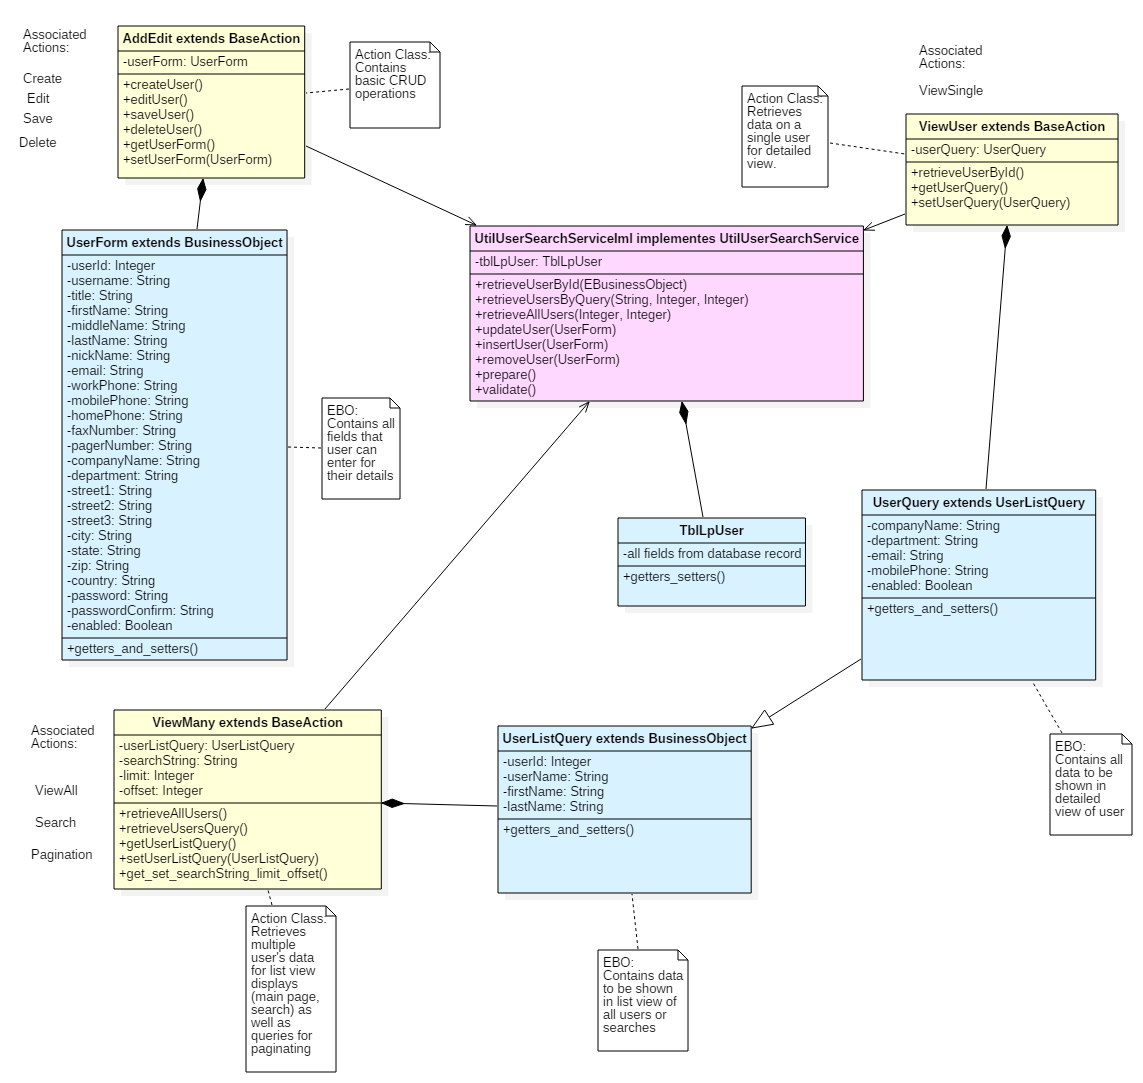
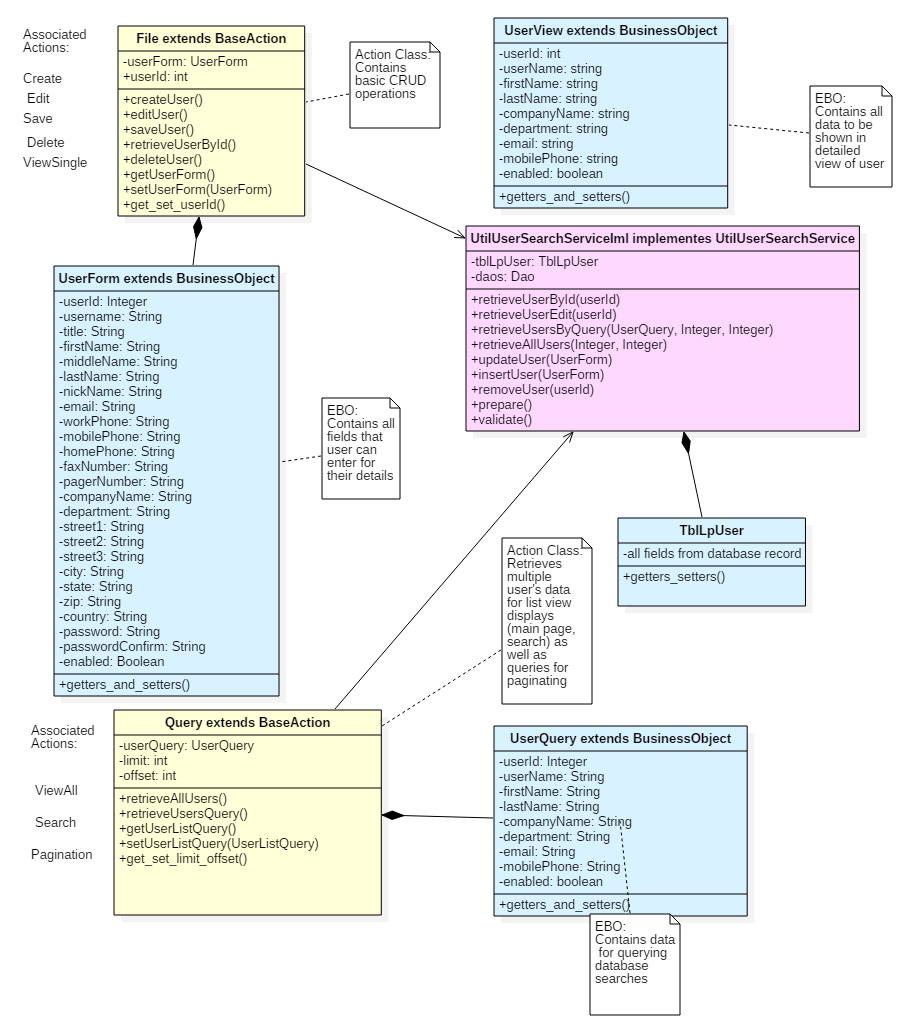
a few errors fixed

diff --git a/util-service.html b/util-service.html
@@ -108,7 +108,7 @@
 			<ul>
 				<li>Params:</li>
 				<ul>
-					<li>String representing search query</li>
+					<li>UserQuery BusinessObject</li>
 					<li>Integer for offset</li>
 					<li>Integer for limit</li>
 				</ul>
@@ -125,7 +125,7 @@
 				<li>Purpose:</li>
 				<ul>
 					<li>
-					Create an ArrayList of UserListQuery EBOs based on a passed in string value to search on as well as an offset and limit of results to return (if paginating). This could be altered to have the parameter fields passed in as a new EBO that has those fields.
+					Create an ArrayList of UserListQuery EBOs based on a passed in EBO of values to search on as well as an offset and limit of results to return (if paginating). This could be altered to have the parameter fields passed in as a new EBO that has those fields.
 					</li>
 				</ul>
 			</ul>	

diff --git a/action-classes.html b/action-classes.html
@@ -114,8 +114,7 @@
 				<ul>
 					<li>Fields</li>
 						<ul>
-							<li>UserListQuery BusinessObject</li>
-							<li>searchString String</li>
+							<li>UserQuery BusinessObject</li>
 							<li>limit Integer</li>
 							<li>offset Integer</li>
 						</ul>
